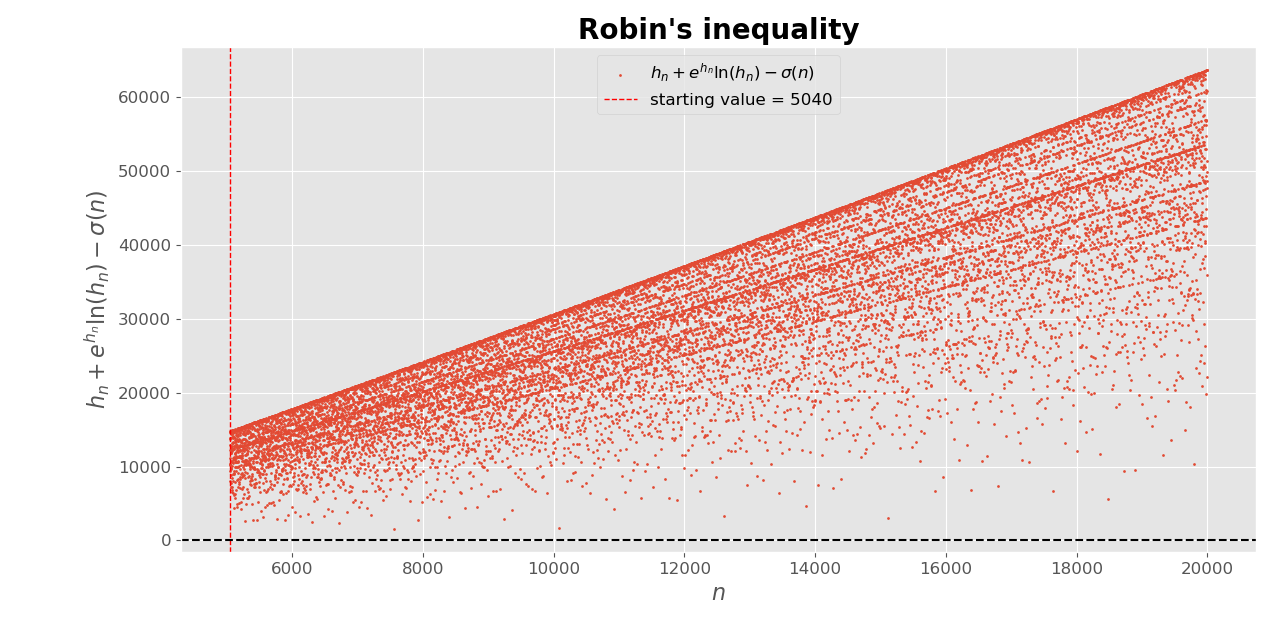
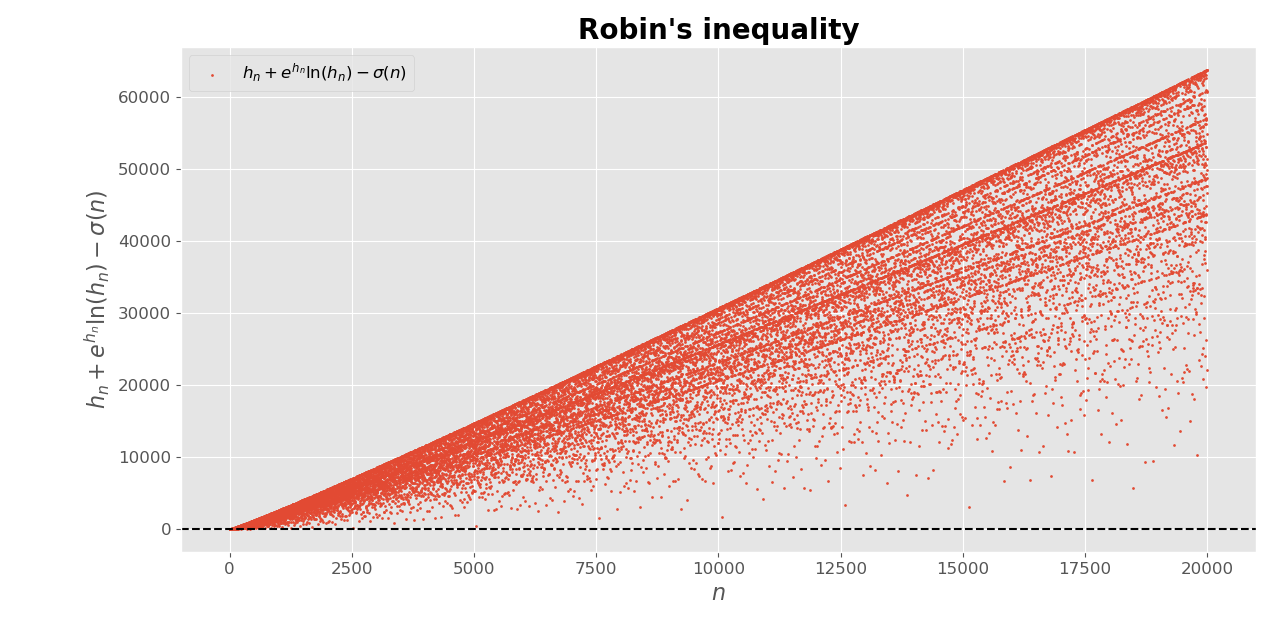
updating plot

diff --git a/robins_inequality.py b/robins_inequality.py
@@ -2,7 +2,7 @@
 https://en.wikipedia.org/wiki/Divisor_function
 paper by Jeffrey C. Lagarias: https://arxiv.org/pdf/math/0008177.pdf
 
-This inequality for n>5040 is equivalent to the Riemann Hypothesis
+This inequality for n>1 is equivalent to the Riemann Hypothesis
 """
 from math import exp, log
 from divisor import divisors
@@ -32,8 +32,6 @@ def plotting(ls_x, ls_y):
 
     ax.scatter(ls_x, ls_y, s=2, label='$h_n + e^{h_n}\ln(h_n) - \sigma(n)$')  # Use LaTeX to render label
 
-    ax.axvline(x=5040, ls='--', c='red', linewidth=1, label='starting value = 5040')  # Add vertical line at n=5040
-
     ax.axhline(y=0, color='black', linestyle='--')  # Add horizontal line at y=0
 
     ax.set_title("Robin's inequality", fontsize=20, fontweight='bold')  # Set the plot title
@@ -48,7 +46,7 @@ def plotting(ls_x, ls_y):
 
 
 if __name__ == '__main__':
-    n_range = range(5041, 10000)  # change upper bound to 20,000 to achieve the stored plot
+    n_range = range(2, 20000)  # change upper bound to 20,000 to achieve the stored plot
     ls = [robin_ineq(n) for n in n_range]
 
     plotting(ls_x=n_range, ls_y=ls)
